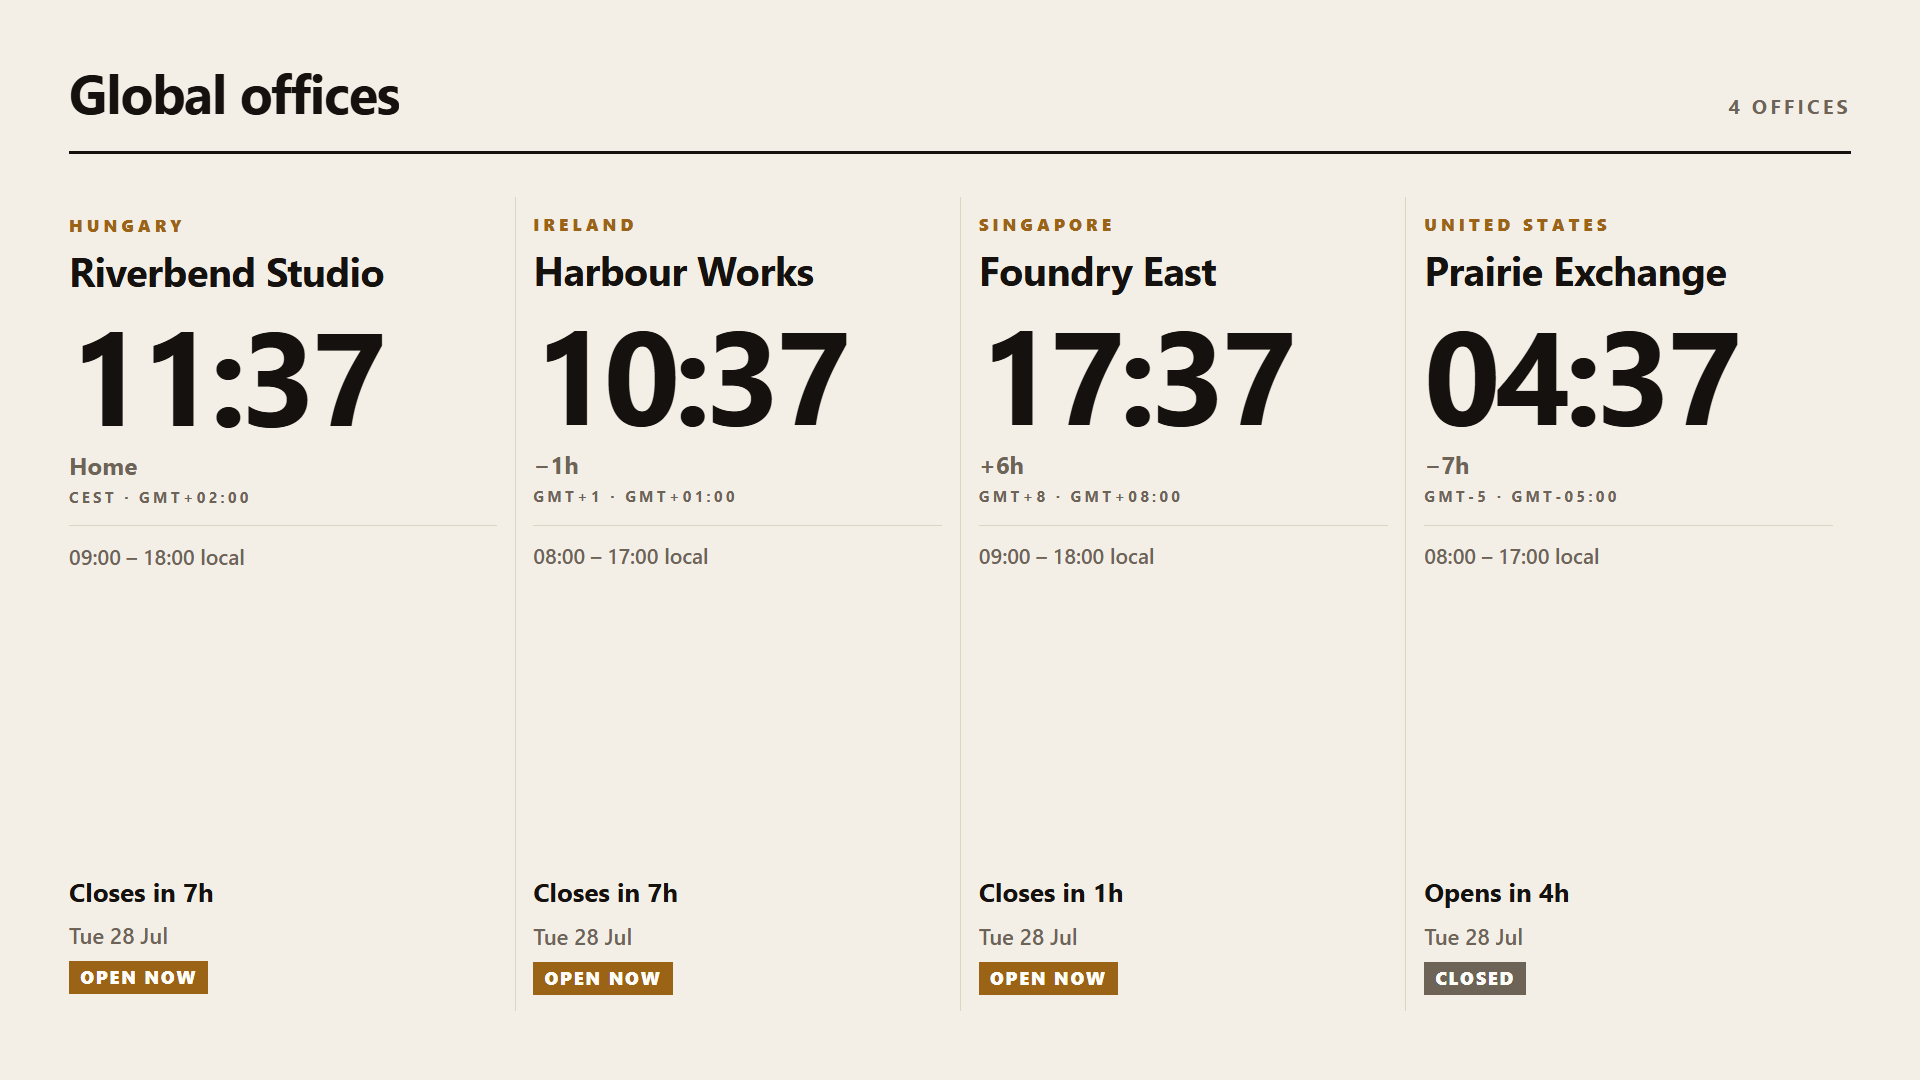
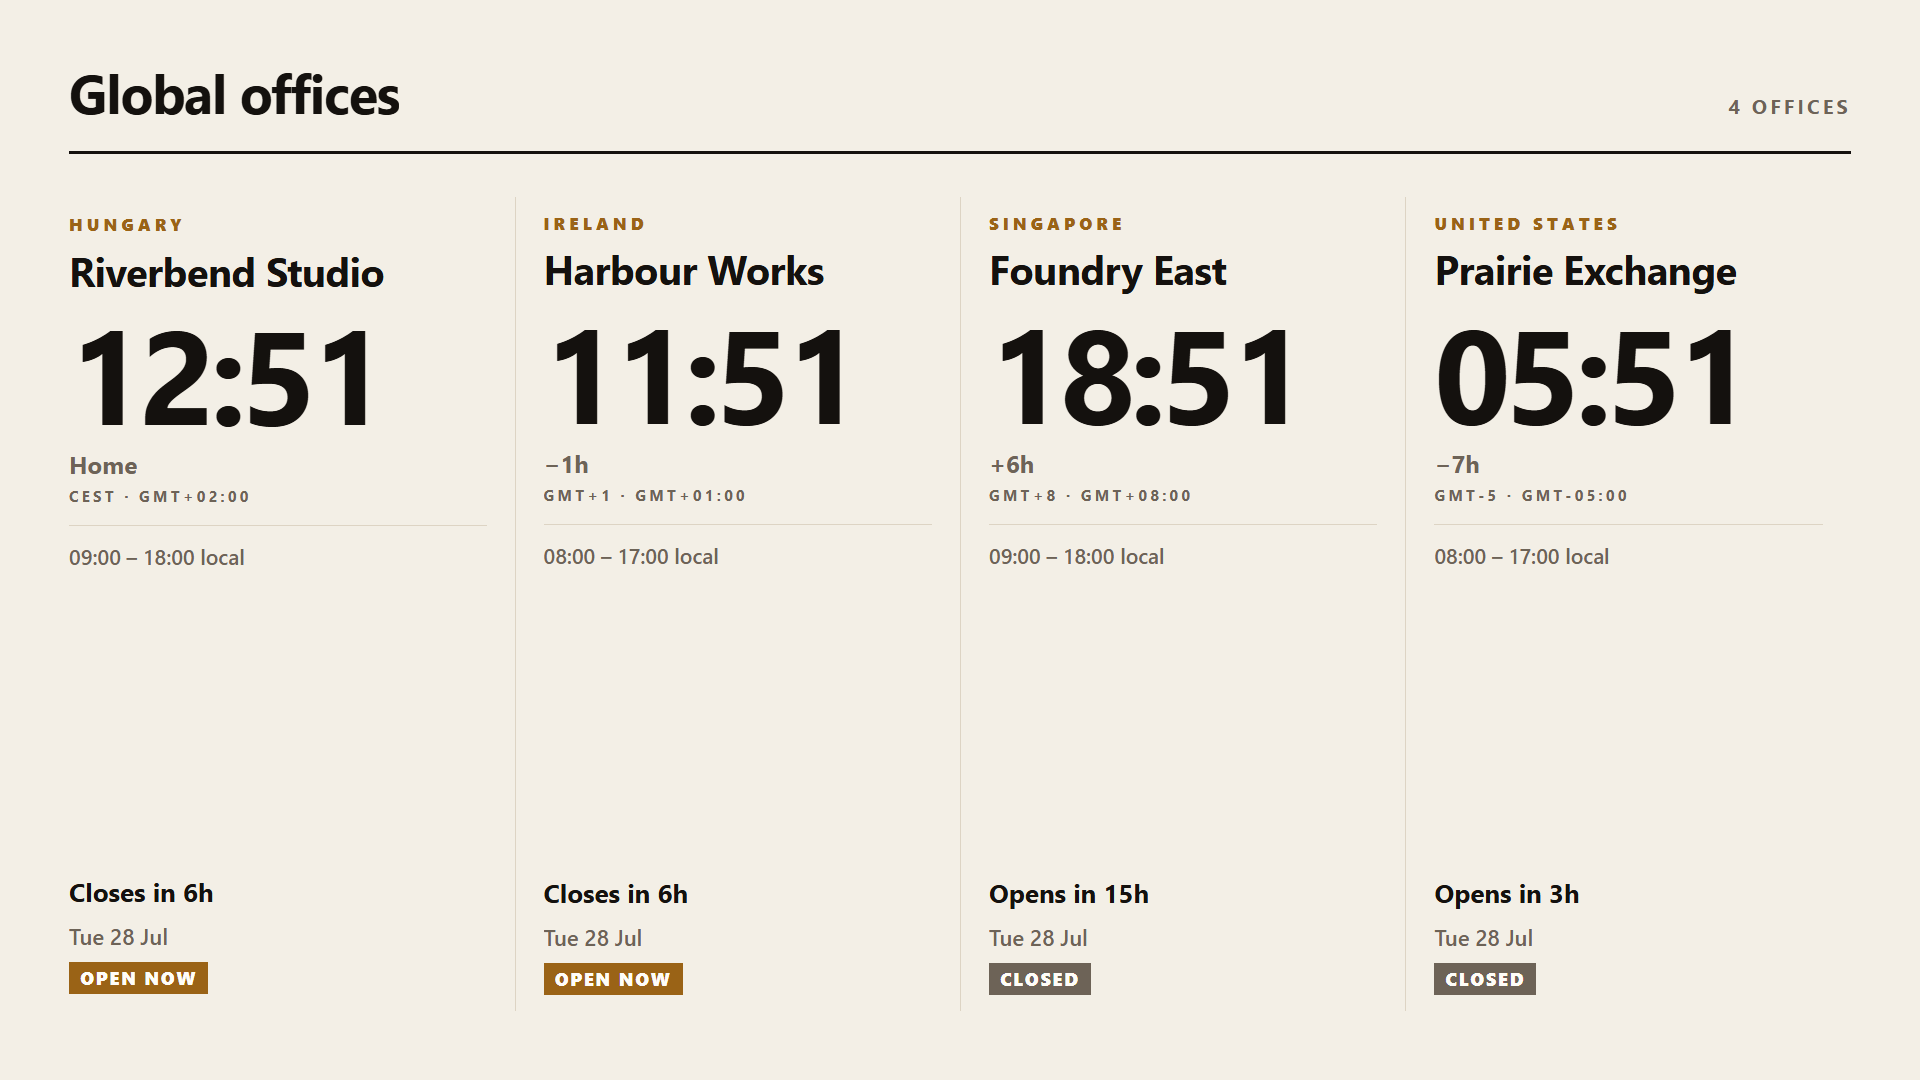
fix: make every example reach CI and the broken-image gate reach breakage
Six examples were never accepted in CI because the acceptance matrix is a
hand-maintained list with nothing checking it, and global-office-clock became
the sixth when it was added. validate-acceptance-matrix.mts now fails when an
example is missing, when the matrix names one that does not exist, or when a
recorded exclusion goes stale. All six are added and pass acceptance.

Running them revealed what the missing CI slot had been hiding in
global-office-clock: two lint errors, and a board built on CSS grid, which the
Chromium 56 legacy bundle does not support. The board is now wrapping flexbox.
Percentage padding moved reference from the grid track to the whole board when
it did, tripling the gutter, so the column gutter is a fixed length.

The visual suite's broken-image check could only ever produce false positives.
It ran inside the visibility filter, and an image that fails to load has no
intrinsic size, so it collapses to a 0x0 box and was skipped -- verified by
injecting a genuinely broken image and watching the suite pass. What it did
catch was `!element.complete`, which means *still loading*, so under CI load a
real, working image was reported broken. That is the intermittent
newsroom-spotlight failure, and product-catalog's earlier one.

Images now settle before anything is measured or captured, and the check runs
over every image in the root, outside the visibility filter. Verified both
ways: clean acceptance passes, and the injected broken image now fails it.
[…]

diff --git a/preview/visual.spec.ts b/preview/visual.spec.ts
@@ -26,6 +26,7 @@ import {
 } from './legibility';
 
 const DEFAULT_VISUAL_SETTLE_MS = 650;
+const IMAGE_SETTLE_TIMEOUT_MS = 5000;
 
 interface VisualPreset {
 	name: string;
@@ -146,6 +147,41 @@ const scenarioPresets: VisualPreset[] = previewScenarios.map((scenario: PreviewS
 	minimumContentCoverage: scenario.minimumContentCoverage,
 	liveDatasourceUpdate: scenario.liveDatasourceUpdate
 }));
+
+/**
+ * Wait for every image to stop loading before anything is measured or captured.
+ *
+ * `HTMLImageElement.complete` is false while a request is still in flight, so an image that simply
+ * had not arrived yet was indistinguishable from one that failed. Under CI load that produced
+ * intermittent `brokenImages` failures on real, working assets, and screenshots that captured a
+ * half-loaded frame. Settling first makes the later `!complete` check mean what it says: an image
+ * that never resolved. Images that resolve to an error still settle, so genuine breakage is
+ * reported by `naturalWidth === 0` rather than by a race.
+ */
+const settleImages = async (page: Page): Promise<void> => {
+	await page.evaluate(async (timeoutMs: number): Promise<void> => {
+		const pending: HTMLImageElement[] = [...document.images].filter(
+			(image: HTMLImageElement): boolean => !image.complete
+		);
+
+		if (pending.length === 0) {
+			return;
+		}
+
+		await Promise.all(pending.map((image: HTMLImageElement): Promise<void> => {
+			return new Promise<void>((resolve): void => {
+				const finish = (): void => {
+					window.clearTimeout(timer);
+					resolve();
+				};
+				const timer: number = window.setTimeout(finish, timeoutMs);
+
+				image.addEventListener('load', finish, { once: true });
+				image.addEventListener('error', finish, { once: true });
+			});
+		}));
+	}, IMAGE_SETTLE_TIMEOUT_MS);
+};
 
 const screenshotDirectory: string = path.resolve(process.cwd(), 'preview', 'output');
 const coverageMeasurementDirectory: string = path.join(screenshotDirectory, 'coverage-measurements');
@@ -311,6 +347,9 @@ for (const preset of [...presets, ...scenarioPresets]) {
 			}, preset.readySelector);
 		}
 
+		await settleImages(page);
+
+
 		const dynamicTextPolicies: DynamicTextPolicy[] = generationBrief.dynamicText.filter(
 			(policy: DynamicTextPolicy): boolean => policy.evidenceScenario === preset.scenario
 		);
@@ -464,11 +503,24 @@ for (const preset of [...presets, ...scenarioPresets]) {
 			const horizontalOverflow: string[] = [];
 			const verticalOverflow: string[] = [];
 			const outsideRoot: string[] = [];
-			const brokenImages: string[] = [];
 			const leafRects: DOMRect[] = [];
 			const textInkMeasurements: TextInkMeasurement[] = [];
 			const canvas: HTMLCanvasElement = document.createElement('canvas');
 			const canvasContext: CanvasRenderingContext2D | null = canvas.getContext('2d');
+
+			/**
+			 * Broken images are collected before the visibility filter, not inside it.
+			 *
+			 * An image that fails to load has no intrinsic size, so unless the layout gives it one it
+			 * collapses to a 0x0 box and the visibility filter skips it — meaning the check could never
+			 * fire on the breakage it exists to catch. It only ever fired on images that were still
+			 * loading but already had a laid-out box, which is a race rather than a defect.
+			 */
+			const collectBrokenImages = (): string[] => {
+				return Array.from(root.querySelectorAll('img'))
+					.filter((image: HTMLImageElement): boolean => image.complete && image.naturalWidth === 0)
+					.map((image: HTMLImageElement): string => describeElement(image));
+			};
 
 			const describeElement = (element: HTMLElement): string => {
 				const id: string = element.id ? `#${element.id}` : '';
@@ -519,10 +571,6 @@ for (const preset of [...presets, ...scenarioPresets]) {
 					element.childElementCount === 0 &&
 					style.textOverflow === 'ellipsis' &&
 					['clip', 'hidden'].includes(style.overflowX);
-
-				if (element instanceof HTMLImageElement && (!element.complete || element.naturalWidth === 0)) {
-					brokenImages.push(describeElement(element));
-				}
 
 				if (
 					!allowsOffCanvasContent &&
@@ -658,7 +706,7 @@ for (const preset of [...presets, ...scenarioPresets]) {
 				horizontalOverflow: [...new Set(horizontalOverflow)],
 				verticalOverflow: [...new Set(verticalOverflow)],
 				outsideRoot: [...new Set(outsideRoot)],
-				brokenImages: [...new Set(brokenImages)],
+				brokenImages: [...new Set(collectBrokenImages())],
 				textInkMeasurements
 			};
 		});

diff --git a/examples/global-office-clock/overlay/src/components/wb-app/wb-app.module.scss b/examples/global-office-clock/overlay/src/components/wb-app/wb-app.module.scss
@@ -64,22 +64,27 @@
   text-transform: uppercase;
 }
 
+/* Wrapping flexbox rather than grid: the legacy bundle targets Chromium 56, which predates it.
+   Columns come from an explicit width so the board keeps the authored column count. */
 :global(.wb-global-office-clock-board) {
-  display: grid;
+  display: flex;
   min-width: 0;
   min-height: 0;
   flex: 1 1 auto;
-  grid-template-columns: repeat(var(--wb-office-columns, 3), minmax(0, 1fr));
-  grid-auto-rows: minmax(0, 1fr);
+  flex-wrap: wrap;
   align-content: stretch;
 }
 
 :global(.wb-global-office-clock-office) {
   display: flex;
+  width: calc(100% / var(--wb-office-columns, 3));
   min-width: 0;
   min-height: 0;
-  padding: 0 4%;
+  /* A fixed gutter, not a percentage: percentage padding on a flex item resolves against the whole
+     board rather than the column, which would multiply the gutter by the column count. */
+  padding: 0 28px;
   overflow: hidden;
+  flex: 0 0 auto;
   flex-direction: column;
   justify-content: flex-start;
   border-left: 1px solid var(--wb-office-divider, #ddd4c4);
@@ -88,6 +93,12 @@
 :global(.wb-global-office-clock-office:first-child) {
   padding-left: 0;
   border-left: 0;
+}
+
+/* A wrapped row needs its own rule; without it the state chip of one row sits straight on top of
+   the next row's region label and the board reads as one run-on column. */
+:global(.wb-global-office-clock-office:not([data-row='0'])) {
+  border-top: 1px solid var(--wb-office-divider, #ddd4c4);
 }
 
 :global(.wb-global-office-clock-identity) {
@@ -181,6 +192,9 @@
   font-variant-numeric: tabular-nums;
 }
 
+/* The foot is pinned to the bottom edge so the state chips share one baseline across the board.
+   `auto` rather than a fixed margin: it only absorbs space that is already free, so a wrapped
+   board cannot be pushed past its own height. */
 :global(.wb-global-office-clock-foot) {
   display: flex;
   min-width: 0;
@@ -247,6 +261,7 @@
 
 /* Portrait stacks the offices, so the rule runs between rows instead of columns. */
 :global(.wb-global-office-clock[data-orientation='portrait']) :global(.wb-global-office-clock-office) {
+  width: 100%;
   padding: 0;
   border-left: 0;
   border-top: 1px solid var(--wb-office-divider, #ddd4c4);
@@ -295,6 +310,10 @@
 
 :global(.wb-global-office-clock[data-tier='small']) :global(.wb-global-office-clock-count) {
   font-size: 14px;
+}
+
+:global(.wb-global-office-clock[data-tier='small']) :global(.wb-global-office-clock-office) {
+  padding: 0 10px;
 }
 
 :global(.wb-global-office-clock[data-tier='small']) :global(.wb-global-office-clock-identity) {

diff --git a/examples/global-office-clock/overlay/src/utils/office-clock.ts b/examples/global-office-clock/overlay/src/utils/office-clock.ts
@@ -201,15 +201,42 @@ export const readOffice = (
 
 export type SurfaceTier = 'small' | 'medium' | 'large';
 
-/**
- * Column count follows the office count, not the surface width: two offices stretched across six
- * columns reads as a broken board.
- */
-export const columnsFor = (count: number, portrait: boolean): number => {
-	if (count <= 0) return 1;
-	if (portrait) return count <= 4 ? 1 : 2;
+/** Below this a column cannot hold an office name and a clock without the name wrapping to three lines. */
+const MINIMUM_COLUMN_WIDTH = 210;
 
-	return count <= 4 ? count : 3;
+/**
+ * Column count follows the office count first, then the surface: two offices stretched across six
+ * columns reads as a broken board, but four offices on a 600px square would each get a 150px
+ * sliver, so the board wraps into rows rather than shrinking past what a column can carry.
+ */
+export const columnsFor = (count: number, portrait: boolean, boardWidth: number): number => {
+	if (count <= 0) {
+		return 1;
+	}
+
+	const ideal: number = portrait
+		? (count <= 4 ? 1 : 2)
+		: (count <= 4 ? count : 3);
+	const affordable: number[] = [];
+
+	for (let columns: number = ideal; columns >= 1; columns -= 1) {
+		if (boardWidth <= 0 || boardWidth / columns >= MINIMUM_COLUMN_WIDTH) {
+			affordable.push(columns);
+		}
+	}
+
+	const widest: number = affordable[0] ?? 1;
+
+	/*
+	 * A row that is one column short leaves a hole the eye reads as a missing office, so an even
+	 * split is worth one column of width — but only down to two. Dropping to a single column to
+	 * divide evenly would stack every office in a tall strip, which is worse than the hole.
+	 */
+	if (count % widest === 0 || widest - 1 < 2 || count % (widest - 1) !== 0) {
+		return widest;
+	}
+
+	return widest - 1;
 };
 
 /**
@@ -225,7 +252,7 @@ export const tierForCell = (
 	count: number,
 	portrait: boolean
 ): SurfaceTier => {
-	const columns: number = columnsFor(count, portrait);
+	const columns: number = columnsFor(count, portrait, boardWidth);
 	const rows: number = Math.max(1, Math.ceil(Math.max(count, 1) / columns));
 	// The header and board padding take roughly a fifth of the height before any column starts.
 	const cellHeight: number = (boardHeight * 0.8) / rows;

diff --git a/examples/global-office-clock/overlay/src/components/wb-app/wb-app.tsx b/examples/global-office-clock/overlay/src/components/wb-app/wb-app.tsx
@@ -46,7 +46,10 @@ export default (props: { hostElement: HTMLDivElement }): JSX.Element => {
 
 		return offices().map((office: Office): OfficeReading => readOffice(office, at, options));
 	});
-	const columns: Accessor<number> = createMemo((): number => columnsFor(offices().length, portrait()));
+	const columns: Accessor<number> = createMemo((): number => columnsFor(offices().length, portrait(), board().width));
+	const rows: Accessor<number> = createMemo((): number => {
+		return Math.max(1, Math.ceil(Math.max(offices().length, 1) / columns()));
+	});
 	const tier: Accessor<SurfaceTier> = createMemo((): SurfaceTier => {
 		return tierForCell(board().width, board().height, offices().length, portrait());
 	});
@@ -95,6 +98,7 @@ export default (props: { hostElement: HTMLDivElement }): JSX.Element => {
 			data-host-ready={Boolean(props.hostElement)}
 			data-office-count={offices().length}
 			data-columns={columns()}
+			data-rows={rows()}
 			data-orientation={portrait() ? 'portrait' : 'landscape'}
 			data-tier={tier()}
 			style={{
@@ -128,10 +132,11 @@ export default (props: { hostElement: HTMLDivElement }): JSX.Element => {
 							<WbOfficeColumn
 								reading={reading}
 								home={index() === 0}
+								row={Math.floor(index() / columns())}
 								hoursLabel={hoursLabel(reading.office)}
 								zoneLabel={zoneLabel(reading.office, now())}
 								transitionLabel={transitionLabel(reading.office, now())}
-								offsetLabel={offsetLabel(offsetFromHome(offices()[0] as Office, reading.office, now()))}
+								offsetLabel={offsetLabel(offsetFromHome(offices()[0], reading.office, now()))}
 								showOpenState={settings().showOpenState}
 							/>
 						)}

diff --git a/examples/global-office-clock/overlay/preview/behavior.spec.ts b/examples/global-office-clock/overlay/preview/behavior.spec.ts
@@ -77,3 +77,17 @@ test('the board clock ticks and is cleaned up on destroy', async ({ page }): Pro
 
 	await expect(page.locator(ROOT)).toHaveCount(0);
 });
+
+test('a narrow board wraps offices into rows instead of slivers', async ({ page }): Promise<void> => {
+	// Four offices earn four columns on a wide board, but on a 600px square that would be 150px
+	// each — too narrow to carry a name beside a clock, so the board splits into two rows of two.
+	await page.setViewportSize({ width: 1920, height: 1080 });
+	const response = await page.goto('/preview/widget.html?scenario=app-default&background=dark');
+
+	expect(response?.ok()).toBe(true);
+	await page.waitForFunction((): boolean => document.documentElement.dataset.previewReady === 'true');
+	await expect(page.locator(ROOT)).toHaveAttribute('data-columns', '4');
+
+	await page.setViewportSize({ width: 600, height: 600 });
+	await expect(page.locator(ROOT)).toHaveAttribute('data-columns', '2');
+});

diff --git a/examples/global-office-clock/overlay/src/components/wb-office-column/wb-office-column.tsx b/examples/global-office-clock/overlay/src/components/wb-office-column/wb-office-column.tsx
@@ -10,6 +10,7 @@ export interface WbOfficeColumnProps {
 	hoursLabel: string;
 	offsetLabel: string;
 	reading: OfficeReading;
+	row: number;
 	showOpenState: boolean;
 	transitionLabel: string;
 	zoneLabel: string;
@@ -33,6 +34,7 @@ export default (props: WbOfficeColumnProps): JSX.Element => {
 			class="wb-global-office-clock-office"
 			data-open-state={props.reading.openState}
 			data-home={props.home}
+			data-row={props.row}
 		>
 			<div class="wb-global-office-clock-identity">
 				<span class="wb-global-office-clock-region">{props.reading.office.region || 'Office'}</span>
